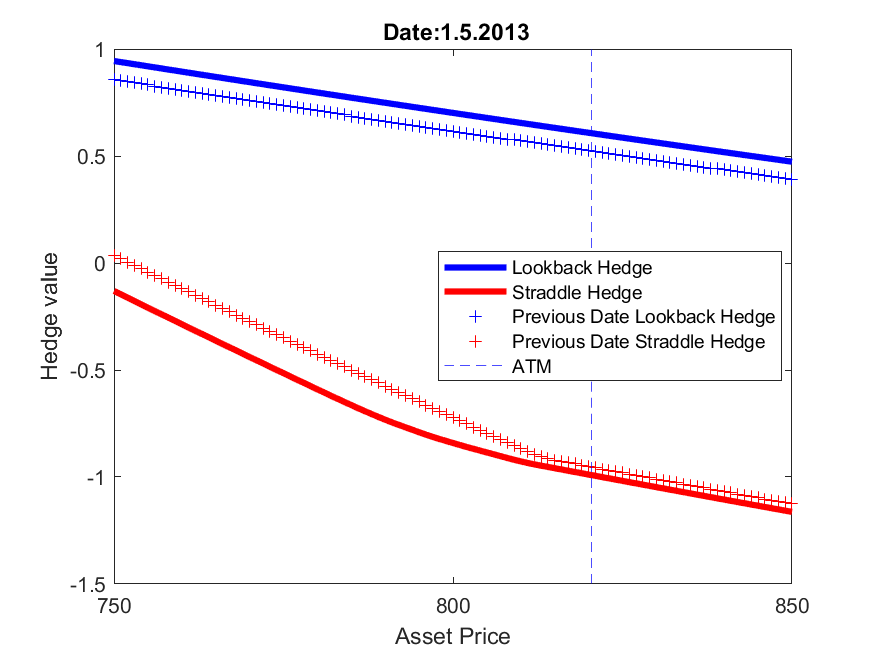
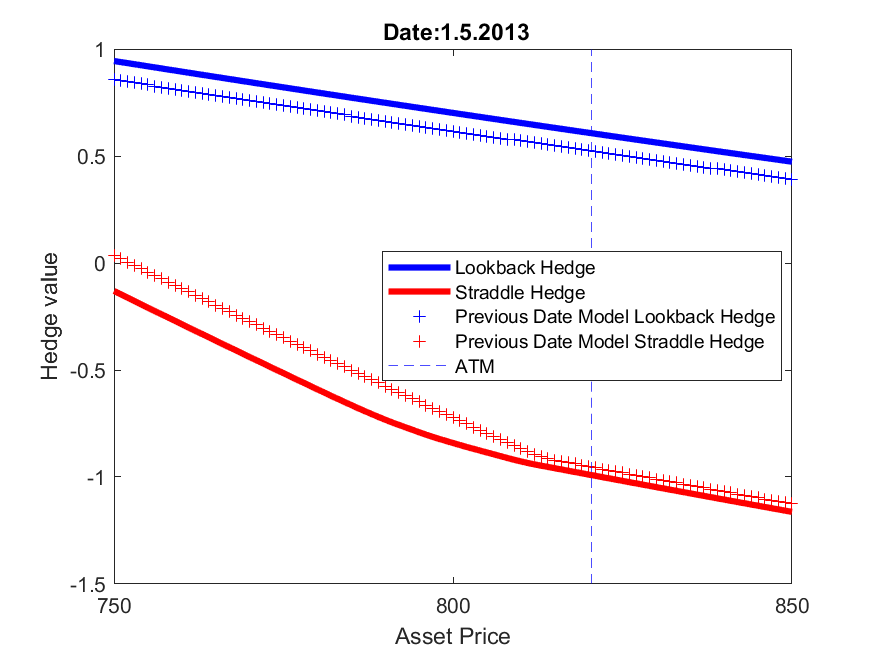
Plots of hedging strategies added for each calibration date

Changed region(s): [[0.432, 0.3963, 0.864, 0.5793]]

diff --git a/Hedge_values/plot_hedge_values.m b/Hedge_values/plot_hedge_values.m
@@ -49,7 +49,7 @@ function [] = plot_hedge_values_after_day_zero(day,GOOG_date,GOOG_S0,hedge_value
 
    xlabel('Asset Price')
    ylabel('Hedge value')
-   legend('Lookback Hedge','Straddle Hedge', 'Previous Date Lookback Hedge','Previous Date Straddle Hedge','ATM','Location','Best')
+   legend('Lookback Hedge','Straddle Hedge', 'Previous Date Model Lookback Hedge','Previous Date Model Straddle Hedge','ATM','Location','Best')
    plot_title = strcat(' Date:  ', string(GOOG_day(Iday(1))),'.', string(GOOG_month(Iday(1))),'.' ,string(GOOG_year(Iday(1))));
    save_string = strcat('Model_Hedge_Date',string(GOOG_day(Iday(1))),string(GOOG_month(Iday(1))),string(GOOG_year(Iday(1))));
    title(plot_title);
